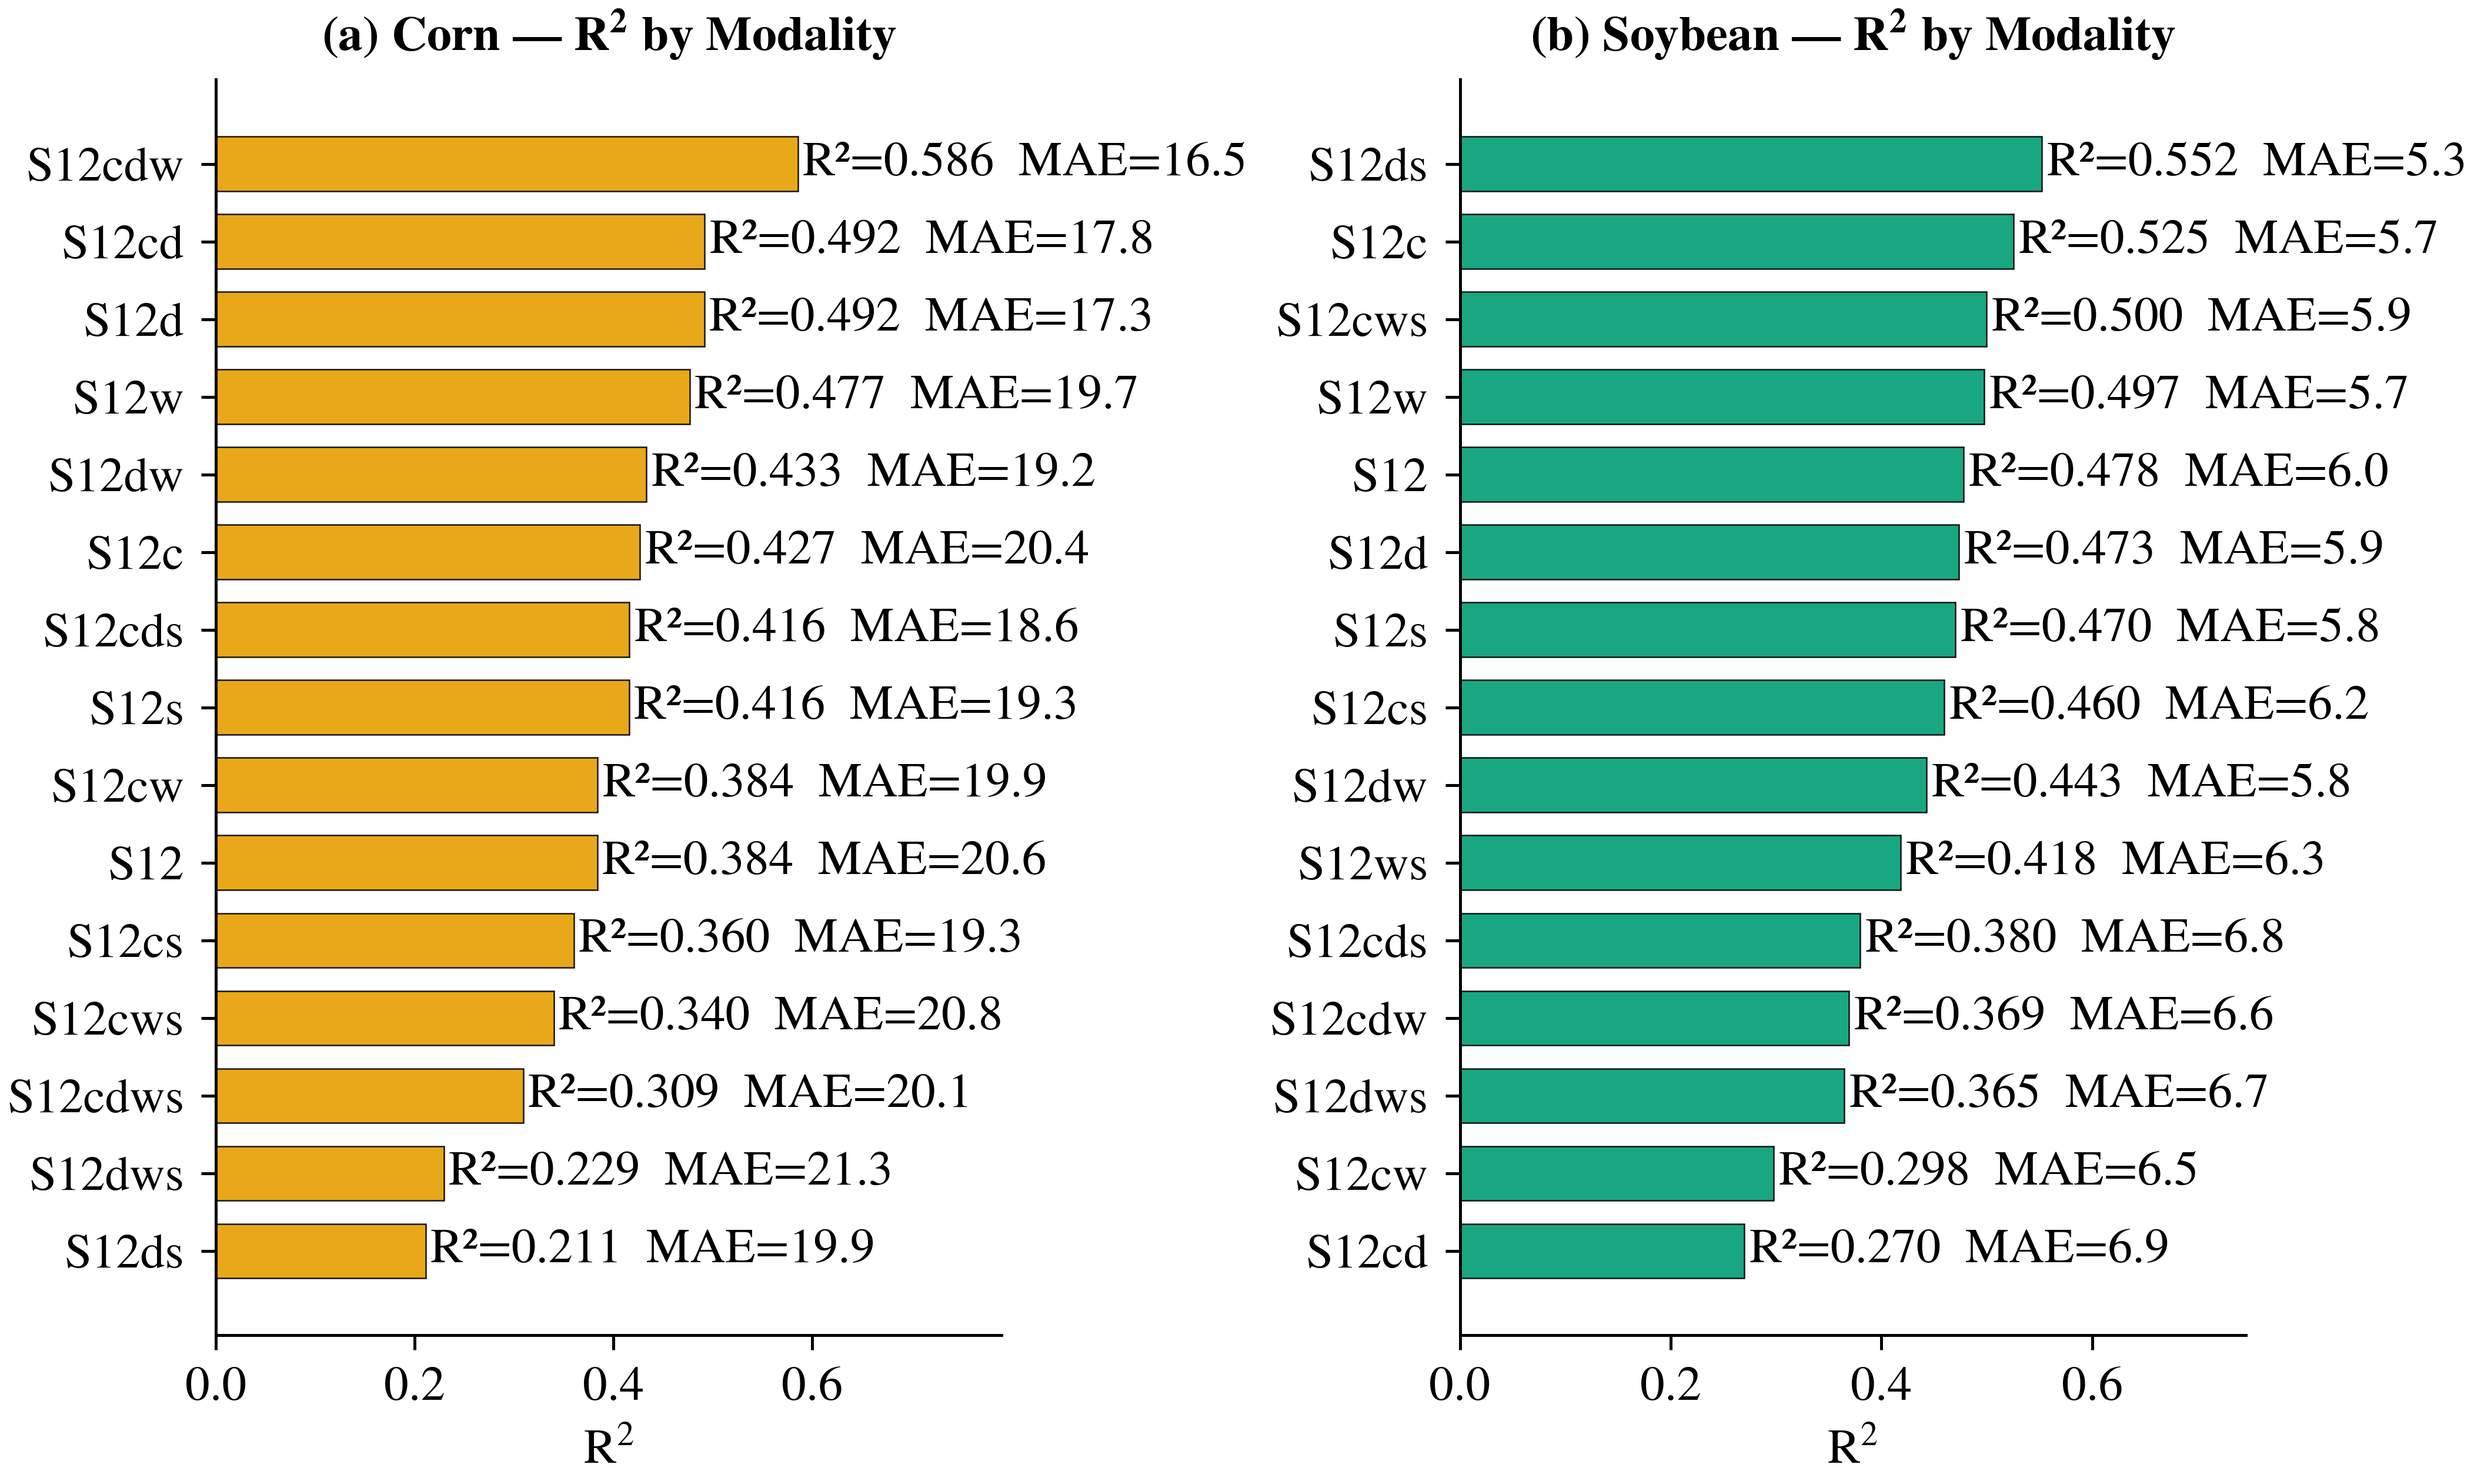
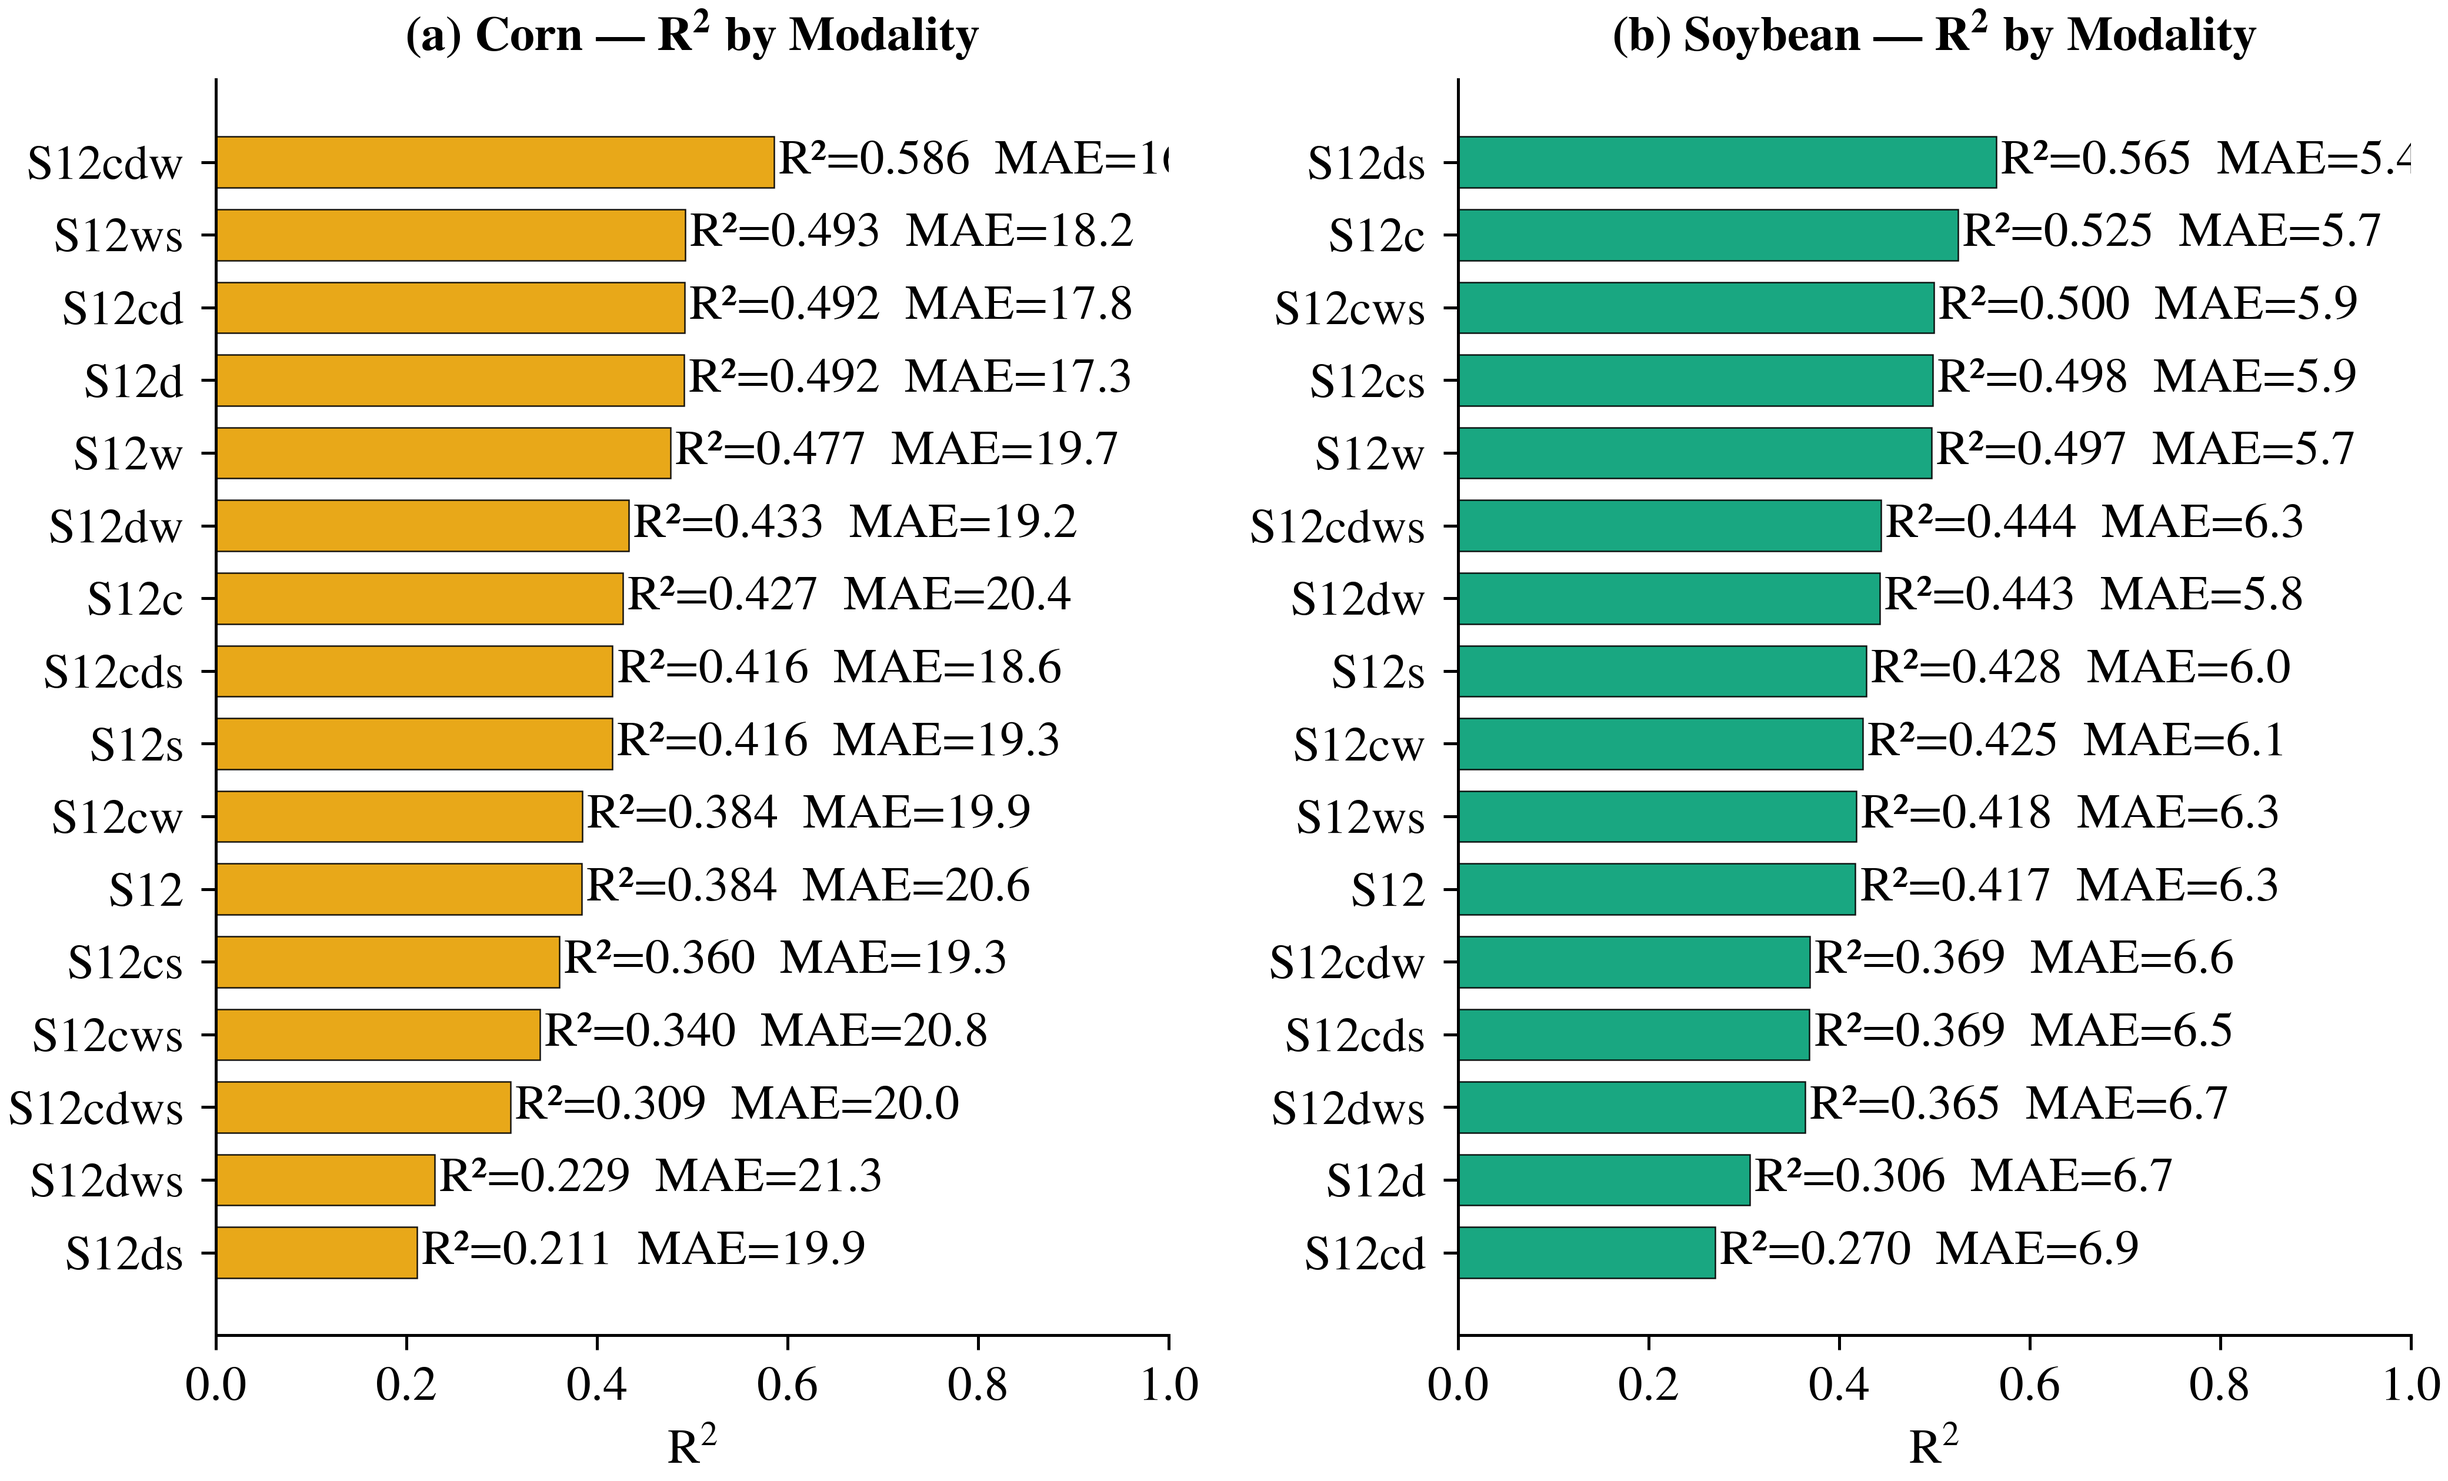
DEV: Updated plotting for M3 (plot the latest predictions).

diff --git a/generate_journal_figures.py b/generate_journal_figures.py
@@ -377,19 +377,28 @@ def fig3_m3_modality_ablation():
     pred_dir = 'M3/predictions'
     csv_files = sorted(Path(pred_dir).glob('*.csv'))
 
+    # Keep only the latest file per (modality, crop) based on timestamp in filename
+    import re
+    latest_files = {}
+    for csv_file in csv_files:
+        modal = extract_modal_code(csv_file.stem)
+        crop = extract_crop(csv_file.stem)
+        ts_match = re.search(r'(\d{8}_\d{6})', csv_file.stem)
+        ts = ts_match.group(1) if ts_match else ''
+        key = (modal, crop)
+        if key not in latest_files or ts > latest_files[key][1]:
+            latest_files[key] = (csv_file, ts)
+
     # Compute metrics per crop per modality
     results = []
-    for csv_file in csv_files:
+    for (modal, crop), (csv_file, _) in latest_files.items():
         df = pd.read_csv(csv_file)
         y_true = df['YieldGT'].values
         y_pred = df['Prediction'].values
         metrics = calculate_metrics(y_true, y_pred)
-        modal = extract_modal_code(csv_file.stem)
-        crop = extract_crop(csv_file.stem)
         results.append({'Modal': modal, 'Crop': crop, **metrics})
 
     rdf = pd.DataFrame(results)
-    rdf = rdf.drop_duplicates(subset=['Modal', 'Crop'])
 
     # ---- Figure: 2 panels (Corn R², Soybean R²) with MAE annotations ----
     fig, (ax_a, ax_b) = plt.subplots(1, 2, figsize=(DOUBLE_COL, 4.5))
@@ -402,12 +411,12 @@ def fig3_m3_modality_ablation():
     for i, (_, row) in enumerate(corn_df.iterrows()):
         ax_a.text(row['R2'] + 0.005, i,
                   f"R\u00b2={row['R2']:.3f}  MAE={row['MAE']:.1f}",
-                  va='center', fontsize=ANNOT_SIZE)
+                  va='center', fontsize=ANNOT_SIZE, clip_on=True)
     ax_a.set_yticks(y_pos)
     ax_a.set_yticklabels(corn_df['Modal'], fontsize=TICK_SIZE)
     ax_a.set_xlabel('$R^2$')
     ax_a.set_title('(a) Corn — $R^2$ by Modality', fontweight='bold', fontsize=TITLE_SIZE)
-    ax_a.set_xlim(0, corn_df['R2'].max() * 1.35)
+    ax_a.set_xlim(0, 1.0)
 
     # Panel (b): Soybean R²
     soy_df = rdf[rdf['Crop'] == 'Soybean'].sort_values('R2', ascending=True)
@@ -417,12 +426,12 @@ def fig3_m3_modality_ablation():
     for i, (_, row) in enumerate(soy_df.iterrows()):
         ax_b.text(row['R2'] + 0.005, i,
                   f"R\u00b2={row['R2']:.3f}  MAE={row['MAE']:.1f}",
-                  va='center', fontsize=ANNOT_SIZE)
+                  va='center', fontsize=ANNOT_SIZE, clip_on=True)
     ax_b.set_yticks(y_pos)
     ax_b.set_yticklabels(soy_df['Modal'], fontsize=TICK_SIZE)
     ax_b.set_xlabel('$R^2$')
     ax_b.set_title('(b) Soybean — $R^2$ by Modality', fontweight='bold', fontsize=TITLE_SIZE)
-    ax_b.set_xlim(0, soy_df['R2'].max() * 1.35)
+    ax_b.set_xlim(0, 1.0)
 
     fig.tight_layout(w_pad=1.0)
     save_fig(fig, 'fig3_m3_modality_ablation')
